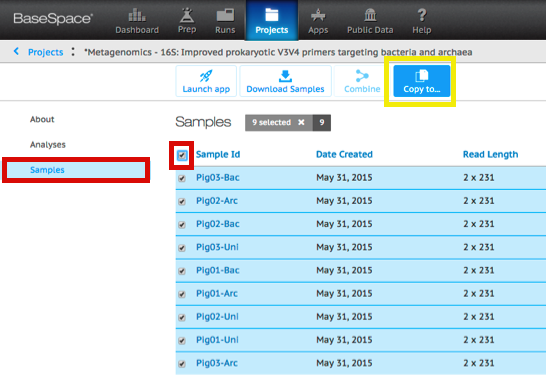
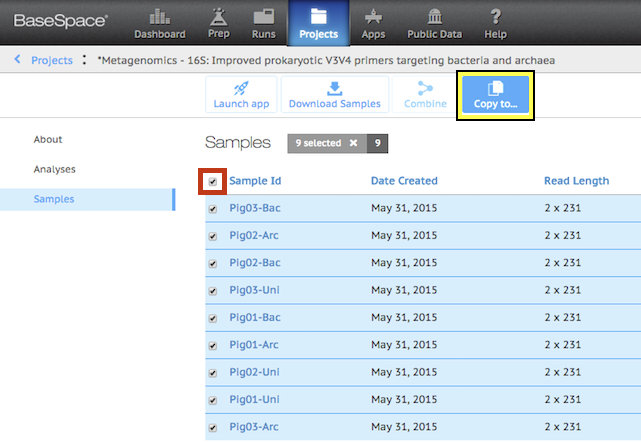
i

diff --git a/copyData/copyData.html b/copyData/copyData.html
@@ -84,9 +84,9 @@ TD{font-family: Arial; font-size: 15pt;}
                         <img src="./images/copyData_step4.png" alt="Step 4" style="width:1000px;height:1000px;"></p>
                 </td>
                 <td width="600">
-                        <p class="Stepsnumbers"><strong>Step 4: <i>Locate Samples to Copy out </i></strong>
+                        <p class="Stepsnumbers"><strong>Step 4: <i>Locate Samples to Copy Out </i></strong>
 			<p>&nbsp;</p>
-				<li><strong><u><i>Click</i></u></strong> on &ldquo;Samples&rdquo; <strong>&lt;sub menu&gt; on the left</strong></p></li>
+				<li><strong><u><i>Click</i></u></strong> on &ldquo;Samples&rdquo; &lt;sub menu&gt; on the left</strong></p></li>
                         <p>&nbsp;</p>
                 </td>
         </tr>
@@ -99,22 +99,22 @@ TD{font-family: Arial; font-size: 15pt;}
  			<p>&nbsp;</p>
 				<li><strong><u><i>Select</i></u></strong> top &lt;checkbox&gt; to highlight all samples for copy.</p></li>
                         <p>&nbsp;</p>
-			<mark>***Note: &ldquo;Copy To&rdquo; &lt;button&gt; <font color="red">NOW APPEARS</font><br>
+			<mark>***Note: &ldquo;Copy to...&rdquo; &lt;button&gt; <font color="red">NOW APPEARS</font><br>
 			<p>&nbsp;</p> 
+	 		<li><strong><u><i>Click</i></u></strong> &ldquo;Copy To...&rdquo; &lt;button&gt;</strong></p></li>
                 </td>
         </tr>
 	<tr>
                 <td>
-                        <img src="./images/sraImport_step6.png" alt="Step 6" style="width:1000px;height:400px;"></p>
+                        <img src="./images/copyData_step6.png" alt="Step 6" style="width:1000px;height:400px;"></p>
                 </td>
                 <td width="500">                        
-			<p class="Stepsnumbers"><strong>Step 6: <i>Define Input for SRA Import App </i></strong>
+			<p class="Stepsnumbers"><strong>Step 6: <i>Choose Destination Project for Copied Samples</i></strong>
+				<li><strong><u><i>Select</i></u></strong> &ldquo;Copy Data Demo&rdquo; <b>Project</b> as the <b><u>destination</b></u></strong>
 			<p>&nbsp;</p>
-			<li><strong><u><i>Enter</i></u></strong> &ldquo;DRA002295&rdquo; into the &lt;textbox&gt;</p></li>
+	 		<li><strong><u><i>Click</i></u></strong> &ldquo;Copy&rdquo; &lt;button&gt;</strong></p></li>
                         <p>&nbsp;</p>
-			<p><mark>Notice</mark> the pre-population of the "SRA Demo"<strong> Project</strong> selection in the &lt;drop-down menu&gt; below the &lt;textbox&gt;.
                         <p>&nbsp;</p>
-		   	Any &lt;<strong style="color:CornflowerBlue">Blue</strong> field&gt; like this can be altered by the user for simple navigation using dynamic pre-poulated values</p>
                 </td>
         </tr>
 	<tr>
